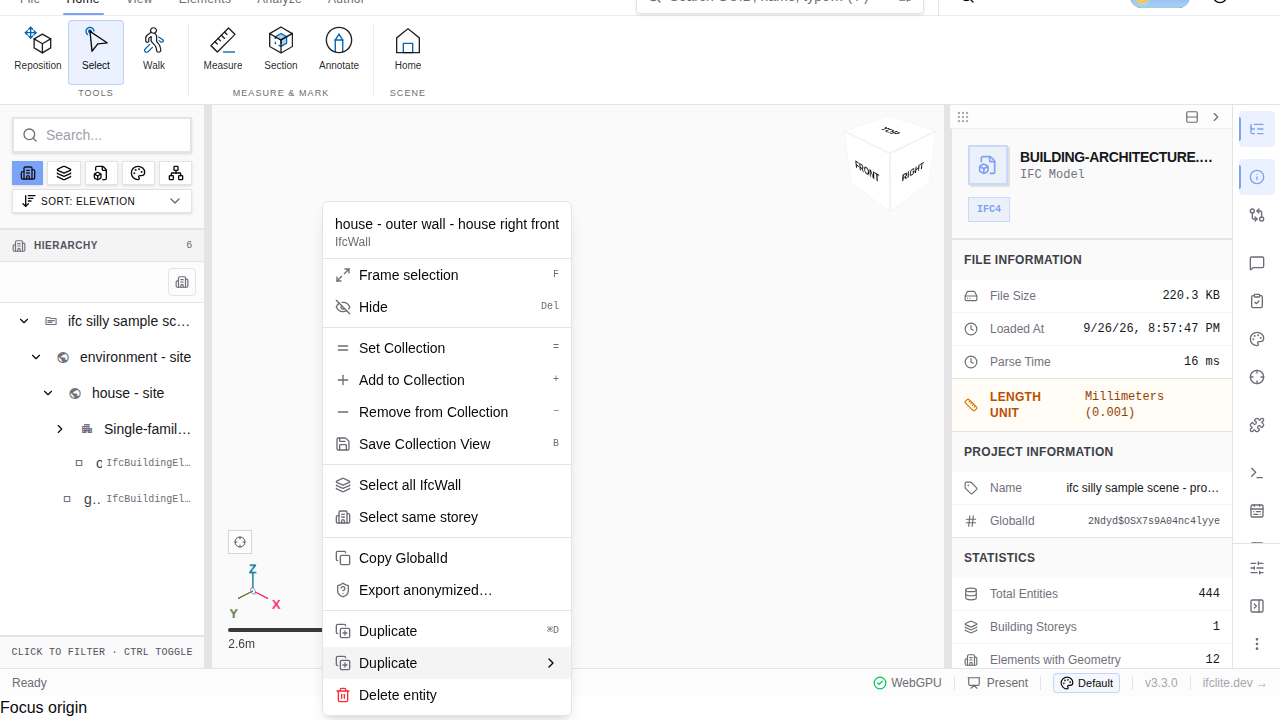
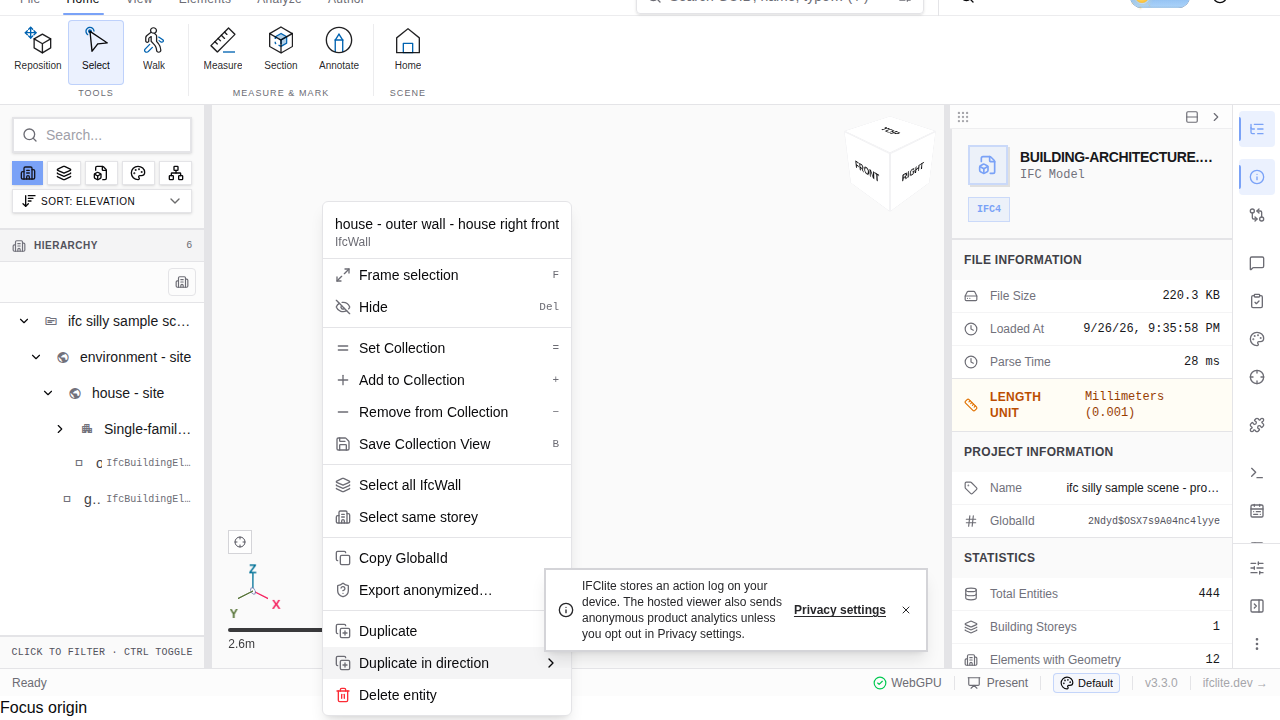
fix(viewer): distinguish directional duplicate submenu

Changed region(s): [[0.4062, 0.7944, 0.7188, 0.9167], [0.9062, 0.4278, 0.9375, 0.4583], [0.3438, 0.9167, 0.375, 0.9472]]

diff --git a/apps/viewer/src/components/viewer/EntityContextMenuItems.tsx b/apps/viewer/src/components/viewer/EntityContextMenuItems.tsx
@@ -78,7 +78,7 @@ export function DuplicateItems({ onDuplicate }: { onDuplicate: (dir: DuplicateDi
       <ContextMenuSub>
         <ContextMenuSubTrigger>
           <CopyPlus className="mr-2 h-4 w-4 text-muted-foreground" />
-          <span className="flex-1">{t('entityContextMenu.duplicateLabel')}</span>
+          <span className="flex-1">{t('entityContextMenu.duplicateDirectionLabel')}</span>
           <ChevronRight className="h-4 w-4" />
         </ContextMenuSubTrigger>
         <ContextMenuSubContent>

diff --git a/apps/viewer/src/i18n/catalogues/misc-panels-b.en.ts b/apps/viewer/src/i18n/catalogues/misc-panels-b.en.ts
@@ -236,6 +236,7 @@ export const miscPanelsBEn = {
   'entityContextMenu.canvasActions': 'Canvas actions',
   'entityContextMenu.duplicateDefaultTitle': 'Duplicate one bbox-width along +X (default)',
   'entityContextMenu.duplicateLabel': 'Duplicate',
+  'entityContextMenu.duplicateDirectionLabel': 'Duplicate in direction',
   'entityContextMenu.frameSelection': 'Frame selection',
   'entityContextMenu.hide': 'Hide',
   'entityContextMenu.setBasket': 'Set Collection',

diff --git a/docs/architecture/evidence/entity-context-menu-5819/README.md b/docs/architecture/evidence/entity-context-menu-5819/README.md
@@ -7,6 +7,8 @@ same resolved entity ID used by viewport picking.
 
 `tests/e2e/entity-context-menu.e2e.spec.ts` checks the rendered action list,
 keyboard navigation into and out of the Duplicate submenu, Escape focus
-return, shortcut hint contrast, and the Hide action's effect on viewer state.
-The existing mounted context-menu action suites cover export, frame selection,
+return, shortcut hint contrast, and the actions' effects on real viewer state:
+visibility, basket set/add/remove/save, type and storey selection, clipboard,
+default and directional duplication, deletion, and anonymized export. The
+existing mounted context-menu suites cover frame selection, export selection,
 same-storey selection, and federation resolution.
